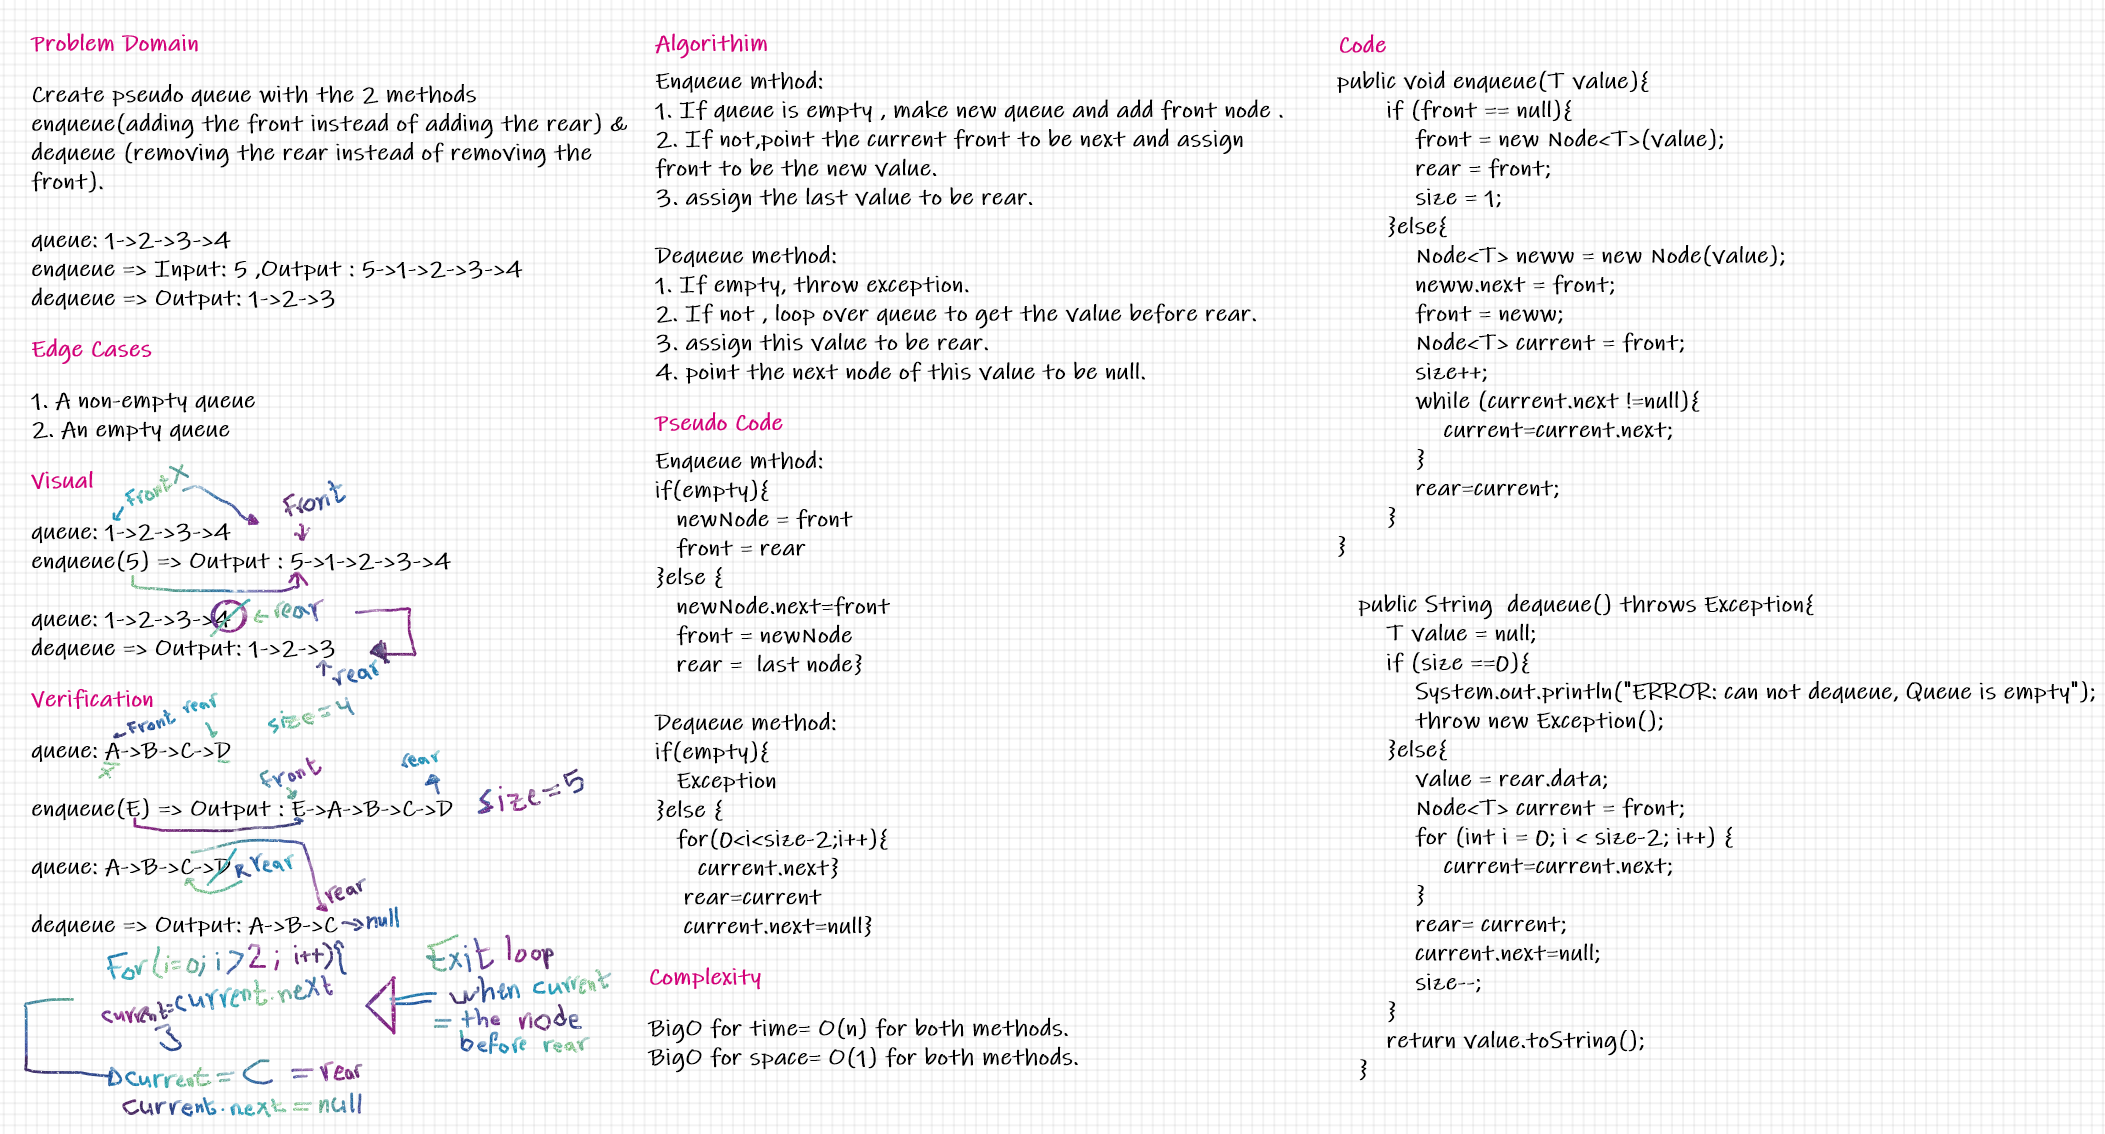
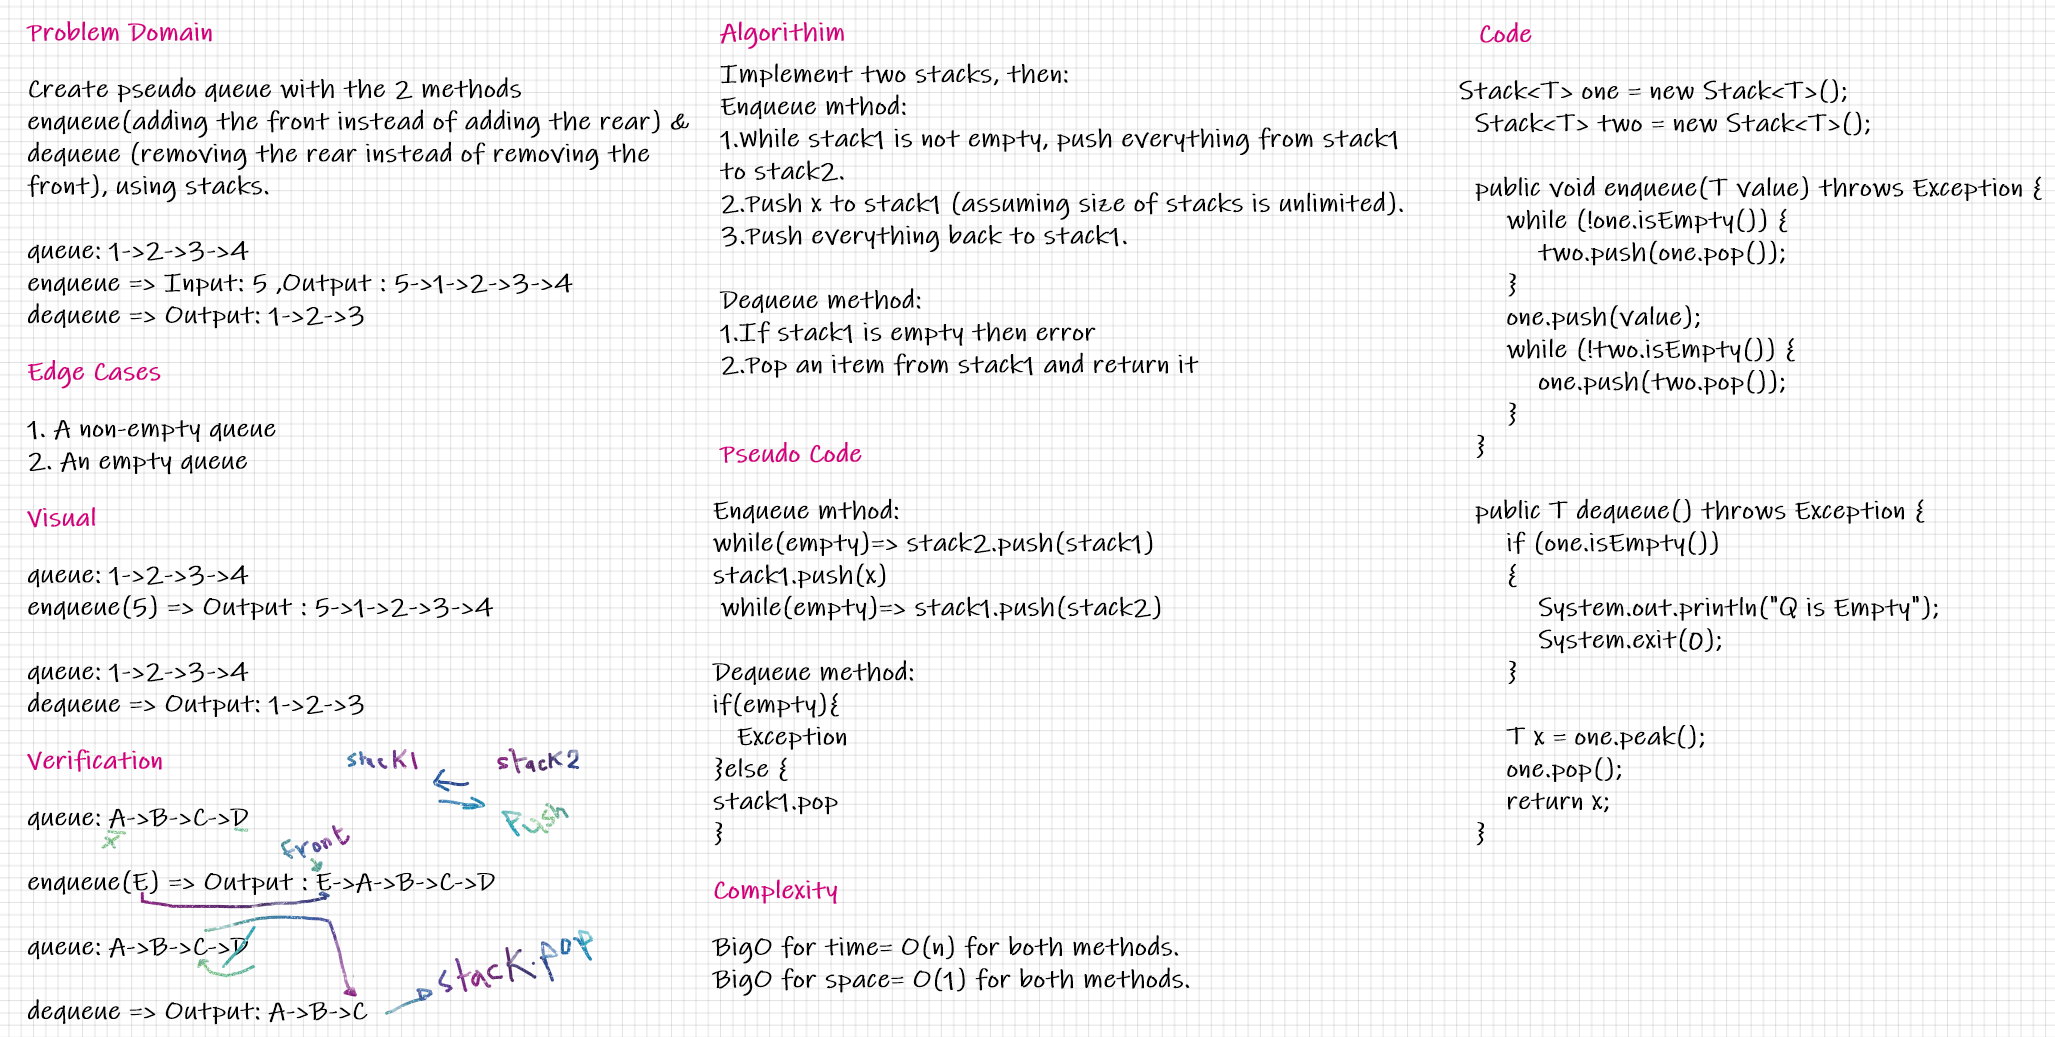
readme and whiteboard

diff --git a/cc-11/read11.md b/cc-11/read11.md
@@ -1,5 +1,5 @@
 # Challenge Summary
-Create pseudo queue with the 2 methods enqueue(adding the front instead of adding the rear) & dequeue (removing the rear instead of removing the front).
+Create pseudo queue with the 2 methods enqueue(adding the front instead of adding the rear) & dequeue (removing the rear instead of removing the front), using stacks.
 
 ## Whiteboard Process
 ![cc-11](./stack-queue-pseudo.png)
@@ -9,7 +9,7 @@ BigO for time= O(n) for both methods.
 
 BigO for space= O(1) for both methods.
 
-I used same way when we solve s stack, but with rear i had to loop over the queue to get the last value
+using 2 stacks to implement queues methods
 
 ## Solution
 queue: 1->2->3->4
@@ -17,3 +17,5 @@ queue: 1->2->3->4
 enqueue => Input: 5 ,Output : 5->1->2->3->4
 
 dequeue => Output: 1->2->3
+
+[reference](https://www.geeksforgeeks.org/queue-using-stacks/?fbclid=IwAR1wtaLhYzYjgko5IdrKbfQAJ_SqQwjKpXr5p3MFpLn1bIwiWliCT8wj7W8)
